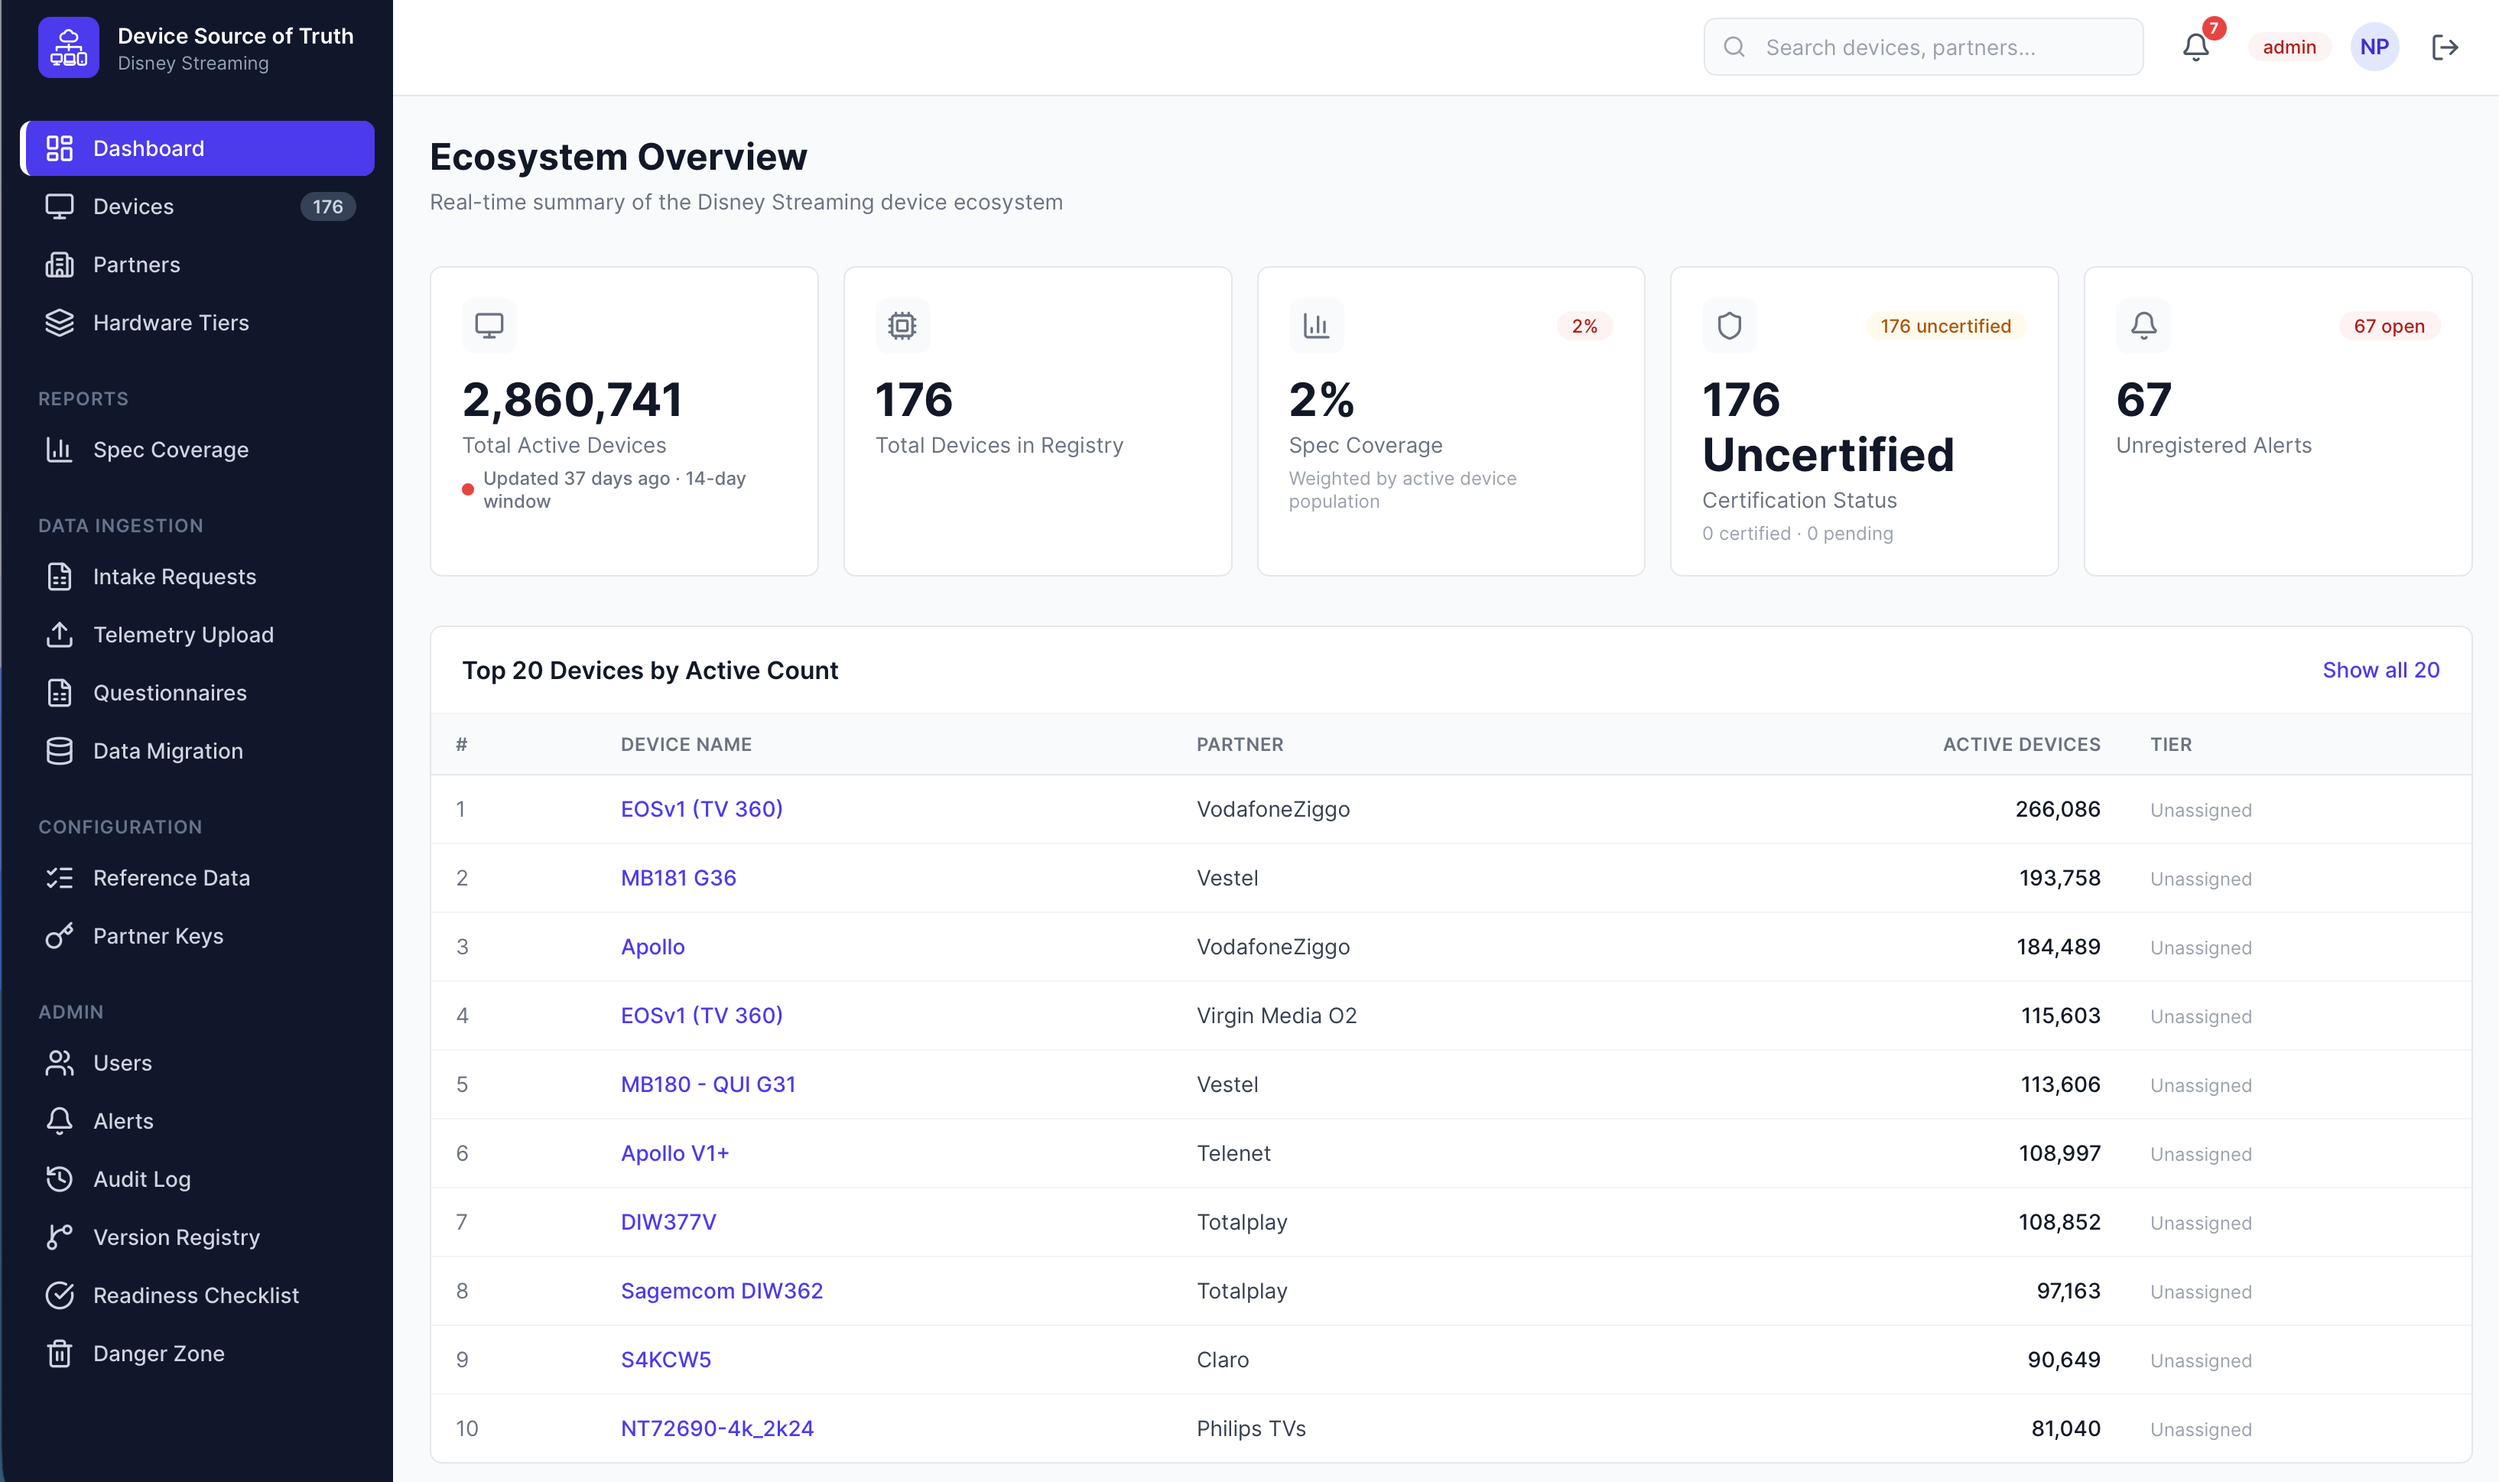
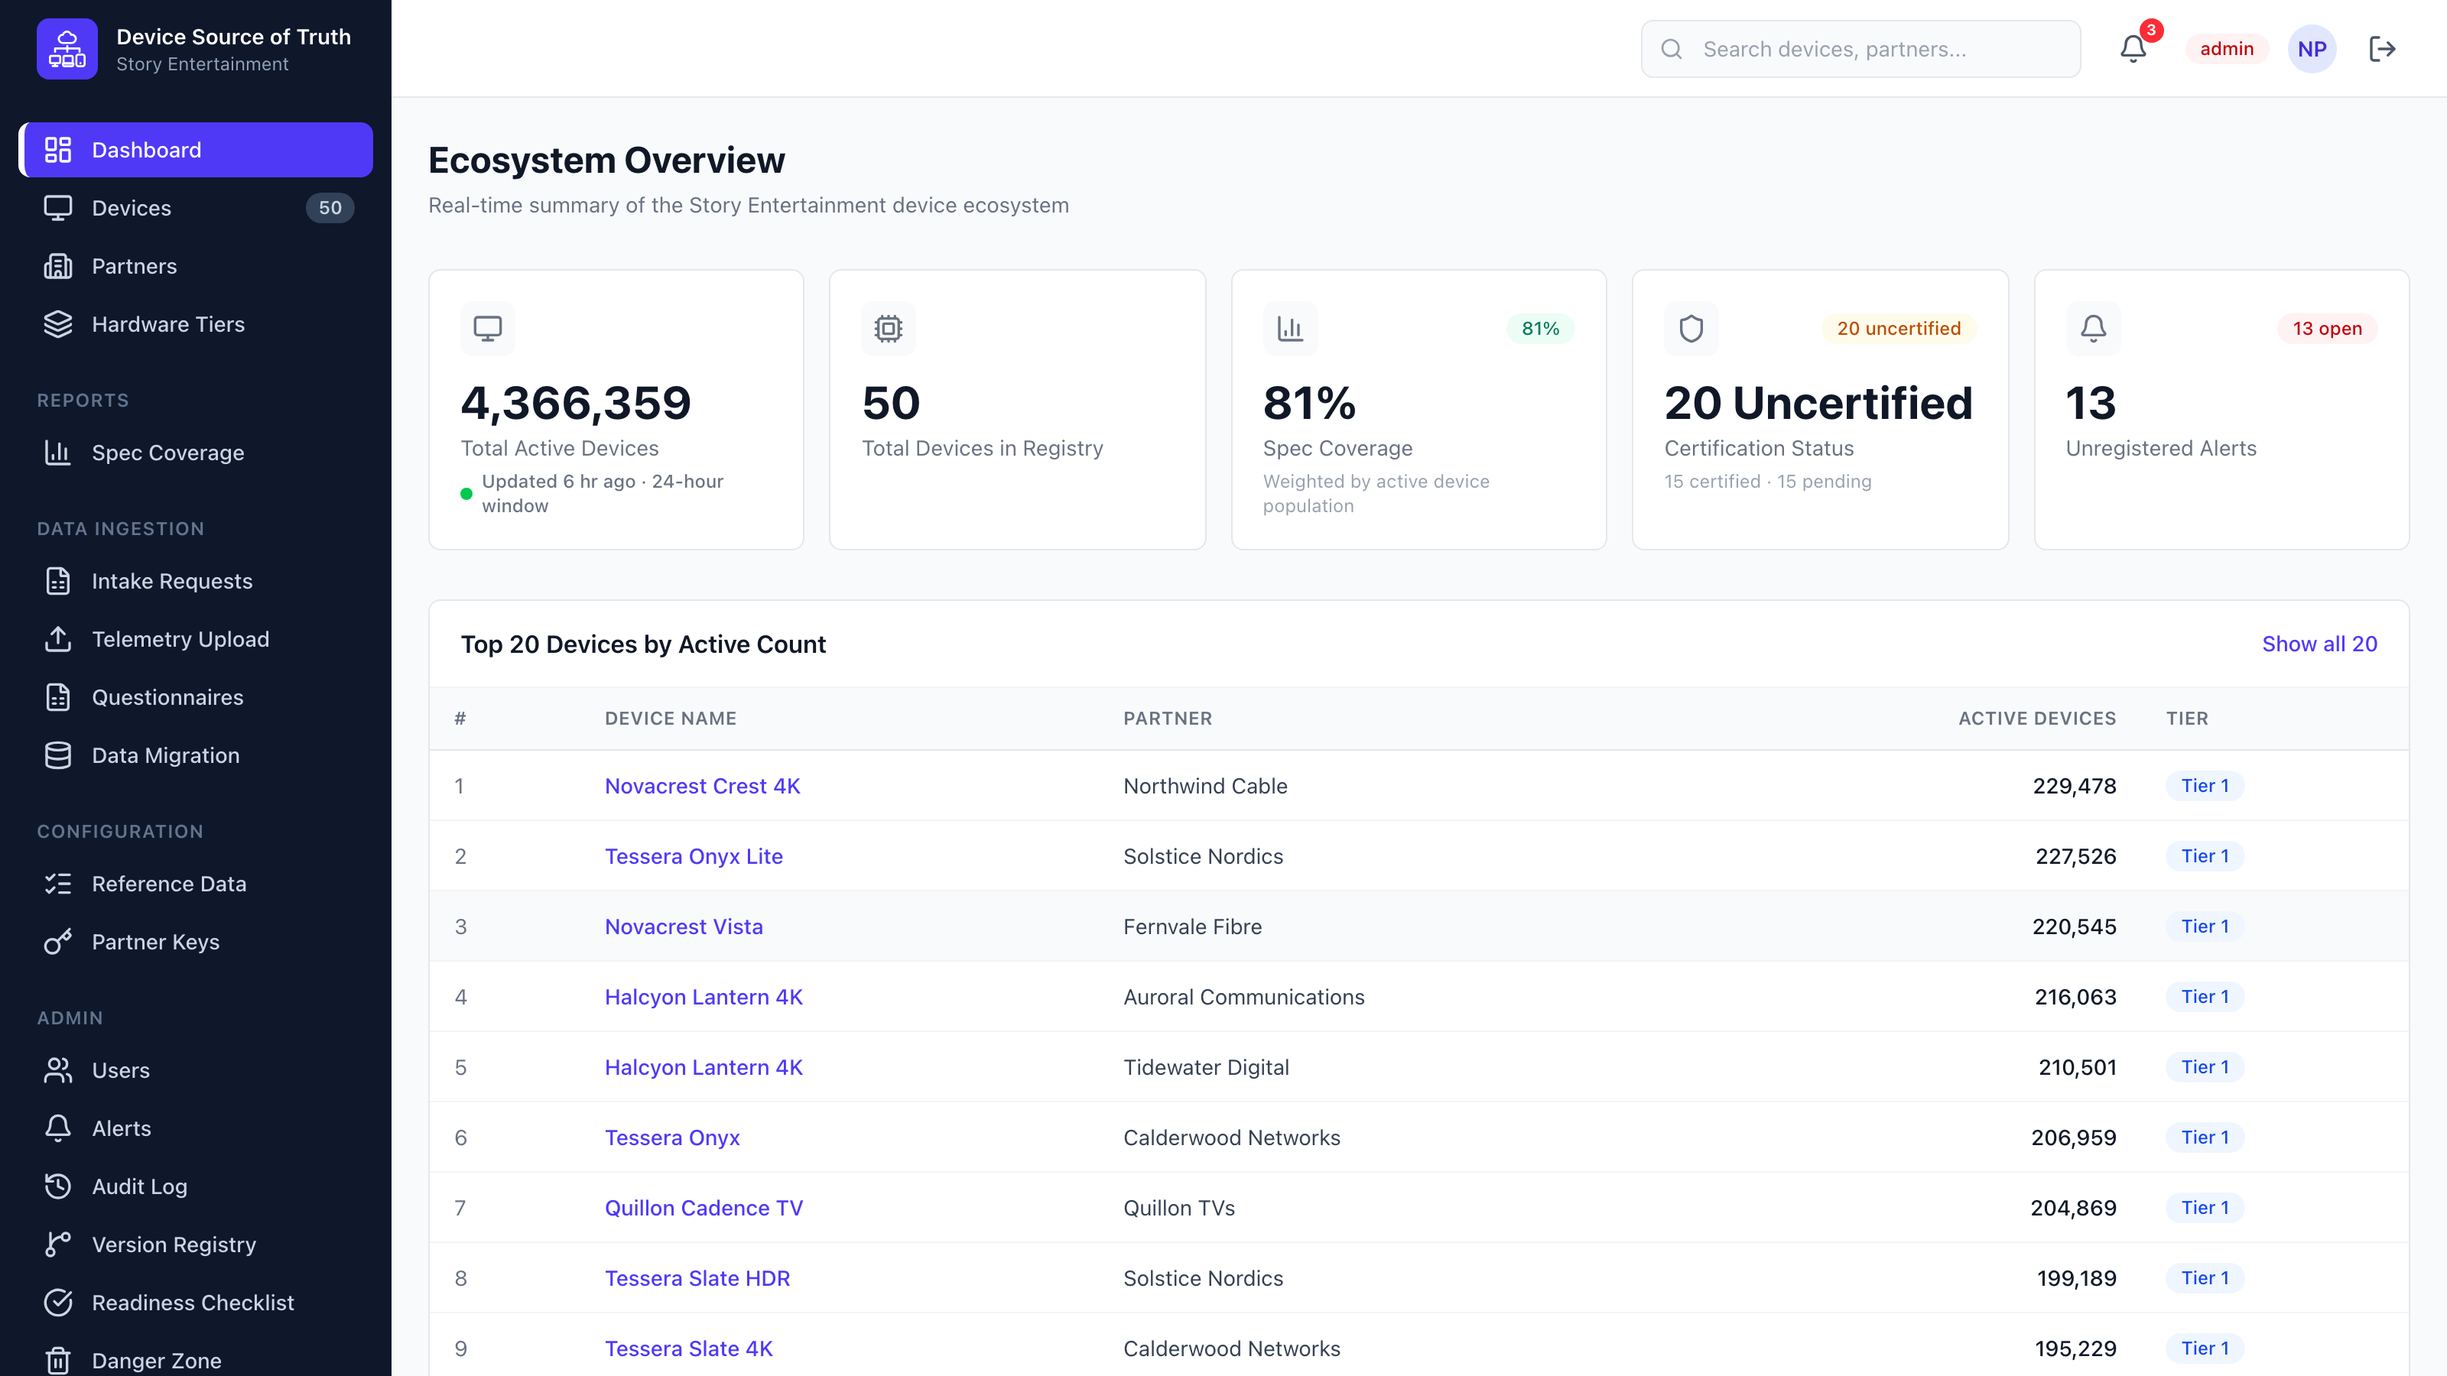
content(dsot): name the fictional streaming group and replace the leaking hero
Two changes to the Device Source of Truth project page, both following the
app-side rebrand in nathanjohnpayne/device-source-of-truth#165.

The hero image was leaking real partner data. The old capture was a signed-in
dashboard from April showing live Disney partner records: VodafoneZiggo at
266,086 active devices, Virgin Media O2, Telenet, Totalplay, Claro, Vestel,
Philips TVs, real model numbers and real counts, under Disney Streaming
branding. It has been publicly served at nathanpayne.com since then. The
replacement is a fresh capture of the same dashboard after the rebrand and
reseed, so it shows only invented partners and devices.

The synthetic-data paragraph now names the fictional group. The staged
sentence said records were invented but did not say what the demo presents
itself as; a visitor clicking through would meet unfamiliar branding with no
explanation. It now names Story Entertainment, matching what actually shipped
(verified against the live app rather than assumed).

The factual Disney references stay. The frontmatter description, the body
prose describing the real problem domain, and the resume entry all describe
real work history, and the synthetic-data paragraph now accounts for the
demo's fictional branding.

diff --git a/src/content/projects/device-source-of-truth.md b/src/content/projects/device-source-of-truth.md
@@ -64,4 +64,4 @@ Those are all answerable questions—but before DST, answering them meant cross-
 
 Device Source of Truth treats that ambiguity as a product problem. The questionnaire pipeline automates the most labor-intensive part of the certification workflow. The version registry flags stale ADK builds. The telemetry freshness badge tells you whether you're looking at data from last week or last quarter. This is the partner-engineering work I spent a decade doing at Disney, and DST is the tool I wanted to exist before I sat down to build it.
 
-Development ended with my Disney tenure, and the deployed instance now runs entirely on synthetic seed data: the schema, import pipelines, and review workflows are real; every device, partner, and questionnaire record is invented for demonstration.
+Development ended with my Disney tenure, and the deployed instance now runs entirely on synthetic seed data: the schema, import pipelines, and review workflows are real; every device, partner, and questionnaire record is invented for demonstration, presented under a fictional streaming group (Story Entertainment) rather than Disney's brands.
